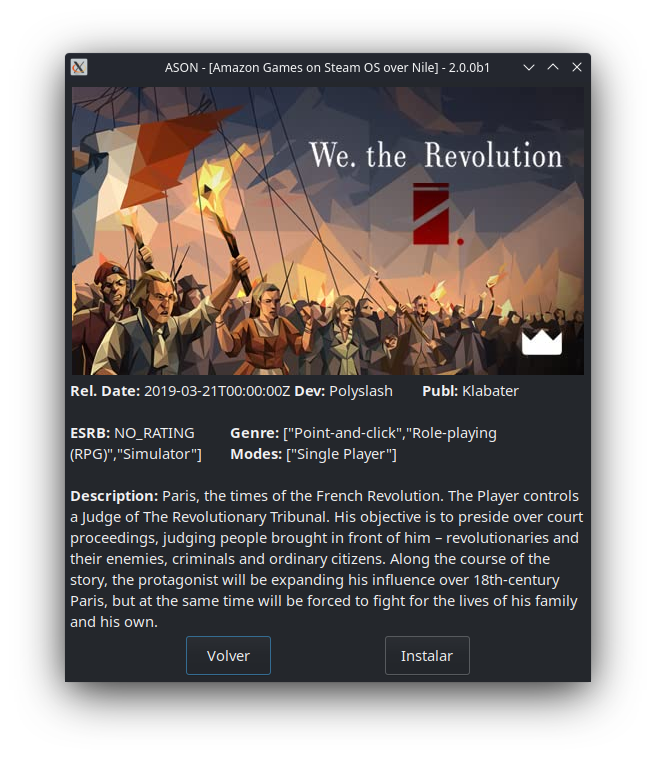
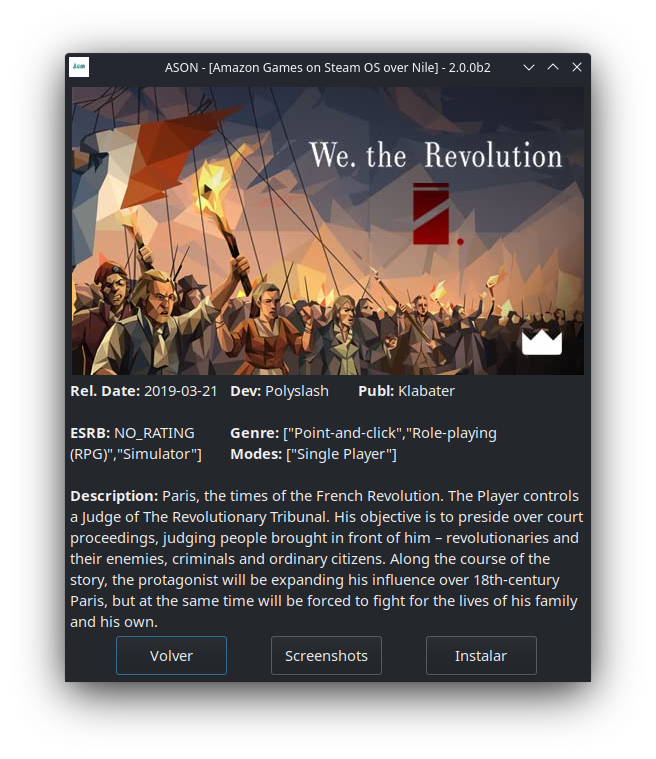
2.0.0b2

diff --git a/README.md b/README.md
@@ -1,7 +1,7 @@
 # Asón ([A]mazon on [S]teamOS [O]ver [N]ile)
 _**A GUI for an unofficial Amanzon Games Launcher (nile)**_
 
-This application **is** a frontend, GUI o wizzard for Amazon Games Launcher on Linux. For this purpose, Asón relies use nile https://github.com/imLinguin/nile All the applause for this utility! _**nile**_ is a tool written in Python that serves as an Amazon Games client on Linux, all through simple commands.
+This application **is** a frontend, GUI or wizzard for Amazon Games Launcher on Linux. For this purpose, Asón relies use nile https://github.com/imLinguin/nile All the applause for this utility! _**nile**_ is a tool written in Python that serves as an Amazon Games client on Linux, all through simple commands.
 
 Currently, Ason is a utility that downloads and creates an easily accessible portable environment. It's perfect for **SteamOS** which is the environment in which this tool is intended to be focused.
 
@@ -31,6 +31,7 @@ For the execution of Ason, run directly `Ason.sh` (remember to make it executabl
 ![Main Window](https://raw.githubusercontent.com/FranjeGueje/Ason/master/doc/MainW.png)
 ![Library Window](https://raw.githubusercontent.com/FranjeGueje/Ason/master/doc/LibraryW.png)
 ![Detail Window](https://raw.githubusercontent.com/FranjeGueje/Ason/master/doc/DetailW.png)
+![Screenshots Window](https://raw.githubusercontent.com/FranjeGueje/Ason/master/doc/ScreenshotsW.png)
 ![Installed Window](https://raw.githubusercontent.com/FranjeGueje/Ason/master/doc/InstalledW.png)
 
 _**FILES**_: Ason has their configuration in ~/.config/nile/ and ~/.cache/ason/ for the cache files.
@@ -45,10 +46,13 @@ Ason uses:
 
 # FAQ
 ## How do I install it?
-* Easy: download the latest release version and unzip it wherever you want. It is portable. After that, make sure that the file "Ason.sh" is executable.
+Easy: download the latest release version and unzip it wherever you want. It is portable. After that, make sure that the file "Ason.sh" is executable.
 
 ## How is it executed?
-* Easy: ejecuta `Ason.sh`
+Easy: run `Ason.sh`
+
+## How can I debug Asón to see the execution details?
+Run `DEBUG=Y ./Ason.sh`. All details will be in debug.log.
 
 ## Can I run games from the Ason itself?
 No, Ason does not run games. It downloads them and can add them to Steam, but does not run them. **IMPORTANT**, once the game is added to Steam, make sure to configure "proton compatibility" in Steam.

diff --git a/CHANGELOG.md b/CHANGELOG.md
@@ -1,4 +1,13 @@
-v2.0
+## Beta 2.0.0b2
+New features:
+- Screenshots window on detail window: new button and window for visualize the screenshots of a game.
+- Initially check if the required components are found. 
+- Mode Debug. You have to run it like "DEBUG=Y ./Ason.sh". It will created a file named debug.log.
+
+Fixes, minor changes:
+- Changes on format of date: from 2020-01-01T00:00:00 to 2020-01-01
+- Cuts on somes descriptions: Now all descriptions are complete.
+- Check if the target directory exist.
 
 # Version 2.0
 New features:
